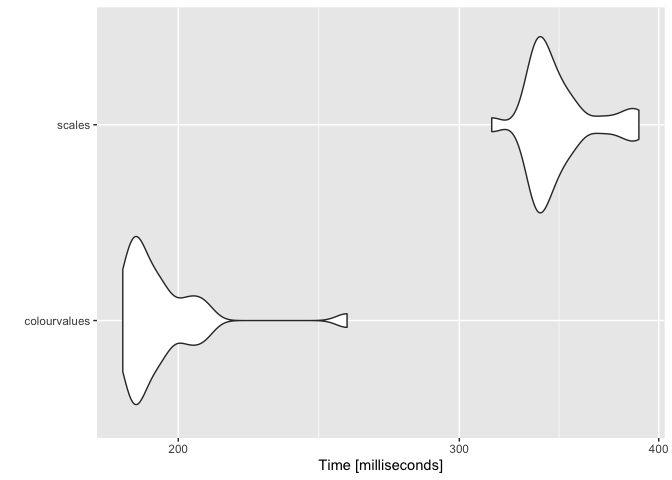
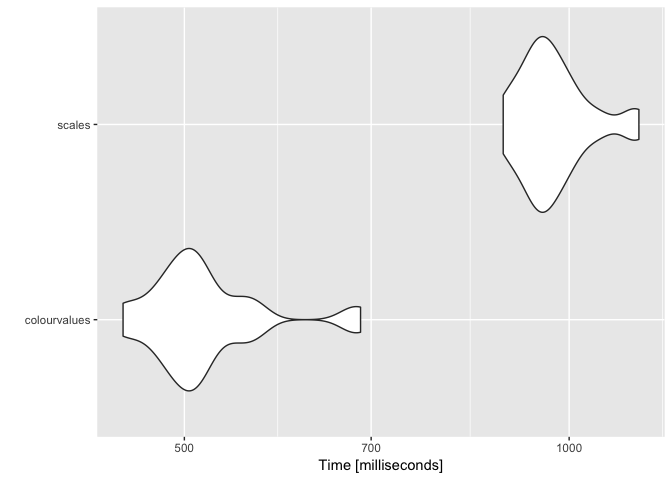
fix urls in readme

diff --git a/README.md b/README.md
@@ -1,8 +1,8 @@
 
-[![CRAN\_Status\_Badge](http://www.r-pkg.org/badges/version/colourvalues)](http://cran.r-project.org/package=colourvalues)
+[![CRAN\_Status\_Badge](http://www.r-pkg.org/badges/version/colourvalues)](https://CRAN.R-project.org/package=colourvalues)
 ![downloads](http://cranlogs.r-pkg.org/badges/grand-total/colourvalues)
 [![CRAN RStudio mirror
-downloads](http://cranlogs.r-pkg.org/badges/colourvalues)](http://cran.r-project.org/web/packages/colourvalues/index.html)
+downloads](http://cranlogs.r-pkg.org/badges/colourvalues)](https://CRAN.R-project.org/package=colourvalues)
 [![Travis-CI Build
 Status](https://travis-ci.org/SymbolixAU/colourvalues.svg?branch=master)](https://travis-ci.org/SymbolixAU/colourvalues)
 [![Coverage
@@ -285,11 +285,11 @@ summary
 ``` r
 colour_values(rnorm(n = 10), n_summaries = 3, digits = 2)
 # $colours
-#  [1] "#2CB27DFF" "#5EC962FF" "#FDE725FF" "#440154FF" "#23898DFF"
-#  [6] "#3A538BFF" "#440154FF" "#ABDC31FF" "#1E9B8AFF" "#21908CFF"
+#  [1] "#FDE725FF" "#3F4888FF" "#38578CFF" "#3C508BFF" "#2B768EFF"
+#  [6] "#2A778EFF" "#463580FF" "#440154FF" "#287C8EFF" "#2A778EFF"
 # 
 # $summary_values
-# [1] "-1.97" "-0.15" "1.66" 
+# [1] "-1.78" "0.53"  "2.84" 
 # 
 # $summary_colours
 # [1] "#440154FF" "#21908CFF" "#FDE725FF"
@@ -339,27 +339,27 @@ values, and their associated colours
 ``` r
 colour_values(sample(letters, size = 50, replace = T), summary = T)
 # $colours
-#  [1] "#25858EFF" "#38588CFF" "#85D44AFF" "#46307EFF" "#50C469FF"
-#  [6] "#C2DF23FF" "#21908CFF" "#433E85FF" "#440154FF" "#471265FF"
-# [11] "#3BBB75FF" "#2BB07EFF" "#FDE725FF" "#32648EFF" "#46307EFF"
-# [16] "#482273FF" "#FDE725FF" "#A3DB37FF" "#32648EFF" "#3E4C8AFF"
-# [21] "#69CD5BFF" "#25858EFF" "#3BBB75FF" "#1E9B8AFF" "#3BBB75FF"
-# [26] "#C2DF23FF" "#21A685FF" "#297A8EFF" "#21908CFF" "#E0E318FF"
-# [31] "#46307EFF" "#1E9B8AFF" "#A3DB37FF" "#32648EFF" "#2D6F8EFF"
-# [36] "#3BBB75FF" "#2D6F8EFF" "#3E4C8AFF" "#69CD5BFF" "#21908CFF"
-# [41] "#85D44AFF" "#FDE725FF" "#3BBB75FF" "#433E85FF" "#3E4C8AFF"
-# [46] "#69CD5BFF" "#38588CFF" "#A3DB37FF" "#85D44AFF" "#32648EFF"
+#  [1] "#482575FF" "#440154FF" "#345F8DFF" "#DDE318FF" "#22A884FF"
+#  [6] "#43BF71FF" "#7AD151FF" "#25848EFF" "#21908CFF" "#440154FF"
+# [11] "#DDE318FF" "#482575FF" "#463480FF" "#7AD151FF" "#414487FF"
+# [16] "#5DC963FF" "#2A788EFF" "#DDE318FF" "#25848EFF" "#FDE725FF"
+# [21] "#BCDF27FF" "#414487FF" "#FDE725FF" "#1E9C89FF" "#482575FF"
+# [26] "#414487FF" "#21908CFF" "#7AD151FF" "#481466FF" "#2A788EFF"
+# [31] "#481466FF" "#414487FF" "#345F8DFF" "#3B528BFF" "#481466FF"
+# [36] "#5DC963FF" "#481466FF" "#5DC963FF" "#43BF71FF" "#9AD93DFF"
+# [41] "#BCDF27FF" "#414487FF" "#43BF71FF" "#43BF71FF" "#FDE725FF"
+# [46] "#463480FF" "#440154FF" "#2F6C8EFF" "#2A788EFF" "#2FB47CFF"
 # 
 # $summary_values
-#  [1] "a" "b" "c" "d" "e" "f" "g" "h" "i" "k" "l" "m" "n" "o" "q" "r" "s"
-# [18] "t" "u" "w" "x" "y" "z"
+#  [1] "a" "c" "d" "e" "f" "g" "h" "j" "k" "m" "n" "p" "q" "r" "s" "t" "v"
+# [18] "w" "x" "y" "z"
 # 
 # $summary_colours
-#  [1] "#440154FF" "#471265FF" "#482273FF" "#46307EFF" "#433E85FF"
-#  [6] "#3E4C8AFF" "#38588CFF" "#32648EFF" "#2D6F8EFF" "#297A8EFF"
-# [11] "#25858EFF" "#21908CFF" "#1E9B8AFF" "#21A685FF" "#2BB07EFF"
-# [16] "#3BBB75FF" "#50C469FF" "#69CD5BFF" "#85D44AFF" "#A3DB37FF"
-# [21] "#C2DF23FF" "#E0E318FF" "#FDE725FF"
+#  [1] "#440154FF" "#481466FF" "#482575FF" "#463480FF" "#414487FF"
+#  [6] "#3B528BFF" "#345F8DFF" "#2F6C8EFF" "#2A788EFF" "#25848EFF"
+# [11] "#21908CFF" "#1E9C89FF" "#22A884FF" "#2FB47CFF" "#43BF71FF"
+# [16] "#5DC963FF" "#7AD151FF" "#9AD93DFF" "#BCDF27FF" "#DDE318FF"
+# [21] "#FDE725FF"
 ```
 
 ### I see you support lists, but how does it work?
@@ -426,9 +426,9 @@ m <- microbenchmark(
 )
 m
 # Unit: seconds
-#          expr      min       lq     mean   median       uq      max neval
-#  colourvalues 1.783367 1.811758 1.840805 1.827738 1.852317 1.945182    25
-#        scales 3.136375 3.177853 3.238426 3.216607 3.249433 3.794146    25
+#          expr      min       lq     mean   median       uq       max neval
+#  colourvalues 3.339203 3.664397 4.715676 5.026010 5.257869  6.226731    25
+#        scales 6.153397 7.201396 8.834126 9.468157 9.907154 12.748400    25
 
 autoplot(m)
 # Coordinate system already present. Adding new coordinate system, which will replace the existing one.
@@ -455,9 +455,9 @@ m <- microbenchmark(
 )
 m
 # Unit: milliseconds
-#          expr      min       lq     mean   median       uq      max neval
-#  colourvalues 184.6126 187.7735 195.3336 190.7612 196.1226 255.1427    25
-#        scales 314.3542 335.7546 345.6469 339.4524 350.5859 388.7054    25
+#          expr      min       lq     mean   median       uq       max neval
+#  colourvalues 447.7285 488.8479 519.8084 507.0384 526.8926  686.7764    25
+#        scales 888.0087 936.6404 972.2149 960.9733 997.1543 1133.9043    25
 
 autoplot(m)
 # Coordinate system already present. Adding new coordinate system, which will replace the existing one.

diff --git a/cran-comments.md b/cran-comments.md
@@ -2,6 +2,7 @@
 ## Release Notes
 
 * Updates v0.2.2 to v0.3
+* fixed URLs in non-canonical form in README
 * CRAN Build Notes: Fedora Clang and OSX builds give notes
 "installed package size is 6.8Mb"
   - I can't reduce the libs directory as all the compiled source code is required
